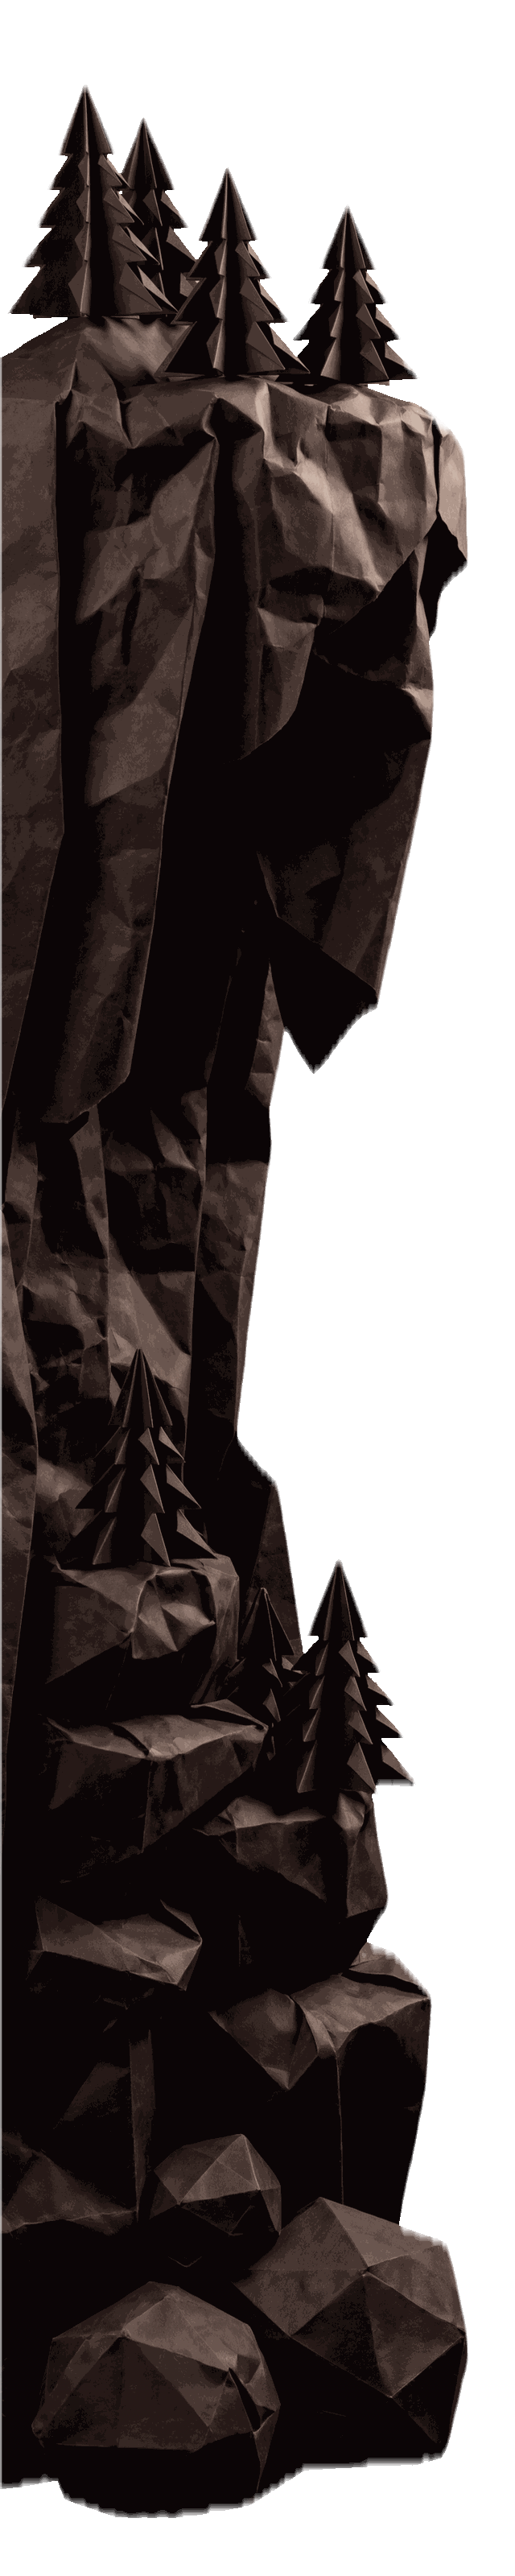
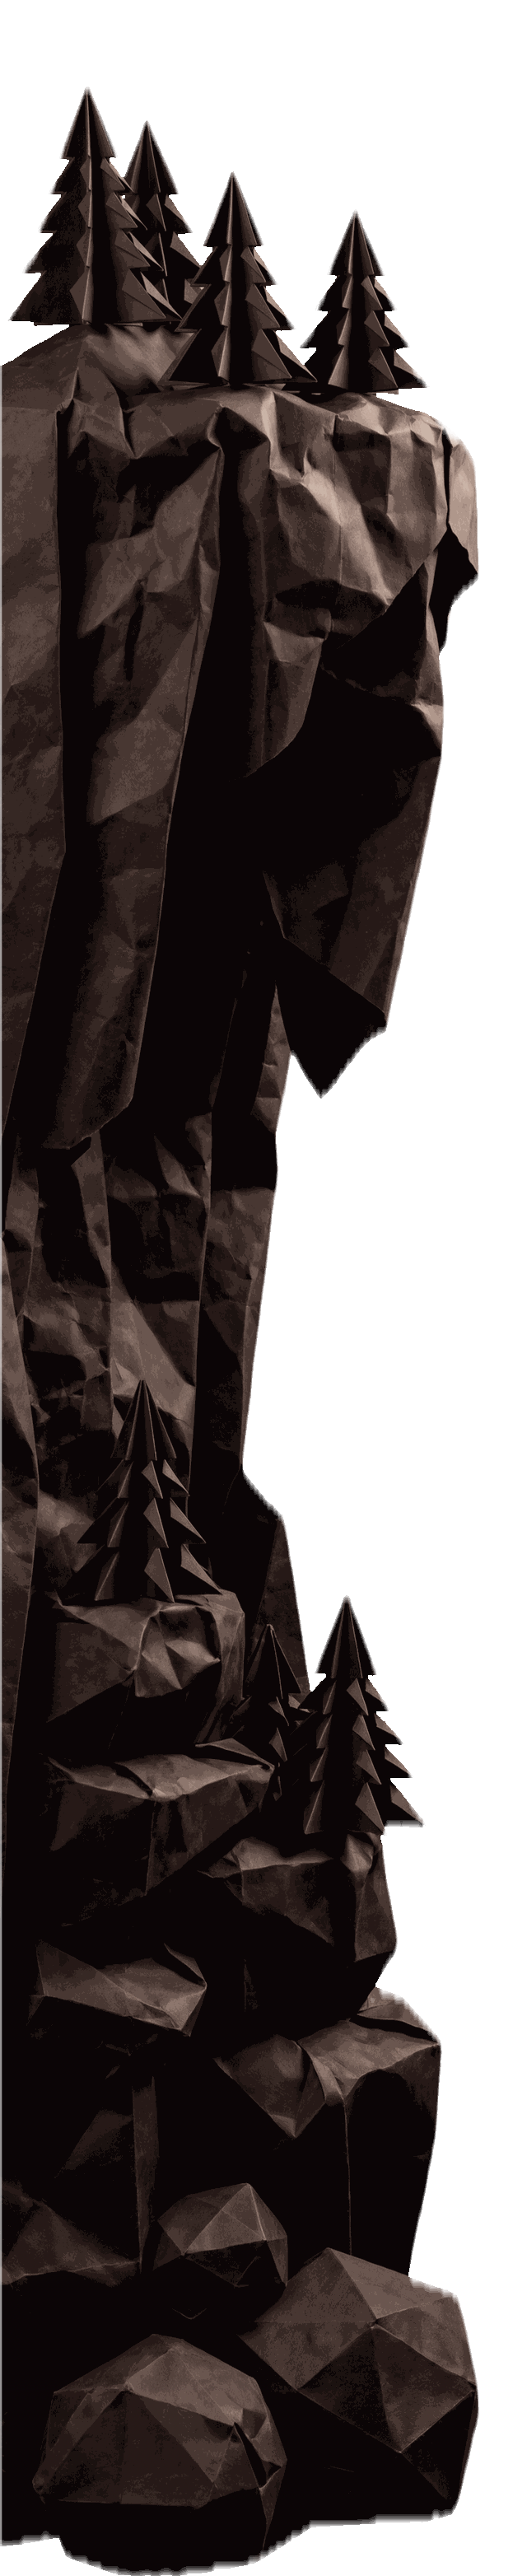
fix(gutters): trim empty strip bottoms; ease walls back toward the edges
left-mid and left-fg carried 72-106px of transparent padding below the
artwork, so their walls stopped short of the page end — cropped to the
alpha bounds. Gutter width steps back to clamp(220px,19.5vw,380px) with
the mask at 60%.

diff --git a/src/components/effects/EdgeDepth.tsx b/src/components/effects/EdgeDepth.tsx
@@ -57,11 +57,11 @@ function Flank({ side }: { side: "left" | "right" }) {
   const inner = side === "left" ? "right" : "left";
   return (
     <div
-      className="pointer-events-none absolute inset-y-0 hidden w-[clamp(240px,21vw,420px)] overflow-hidden lg:block"
+      className="pointer-events-none absolute inset-y-0 hidden w-[clamp(220px,19.5vw,380px)] overflow-hidden lg:block"
       style={{
         [side]: 0,
-        maskImage: `linear-gradient(to ${side === "right" ? "left" : "right"}, black 65%, transparent)`,
-        WebkitMaskImage: `linear-gradient(to ${side === "right" ? "left" : "right"}, black 65%, transparent)`,
+        maskImage: `linear-gradient(to ${side === "right" ? "left" : "right"}, black 60%, transparent)`,
+        WebkitMaskImage: `linear-gradient(to ${side === "right" ? "left" : "right"}, black 60%, transparent)`,
       }}
     >
       {PLANES.map((p) => (